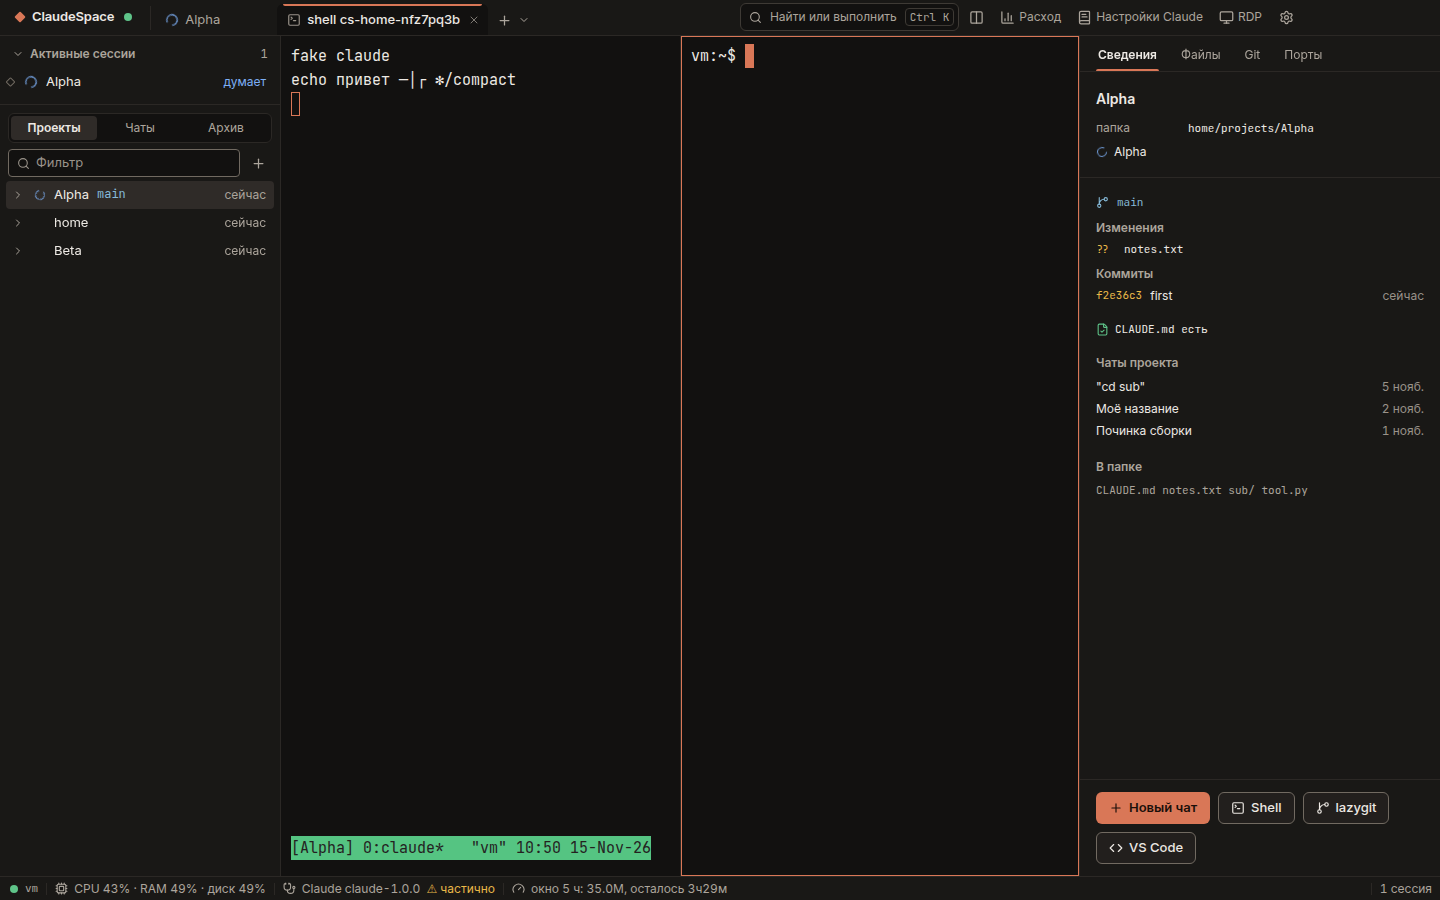
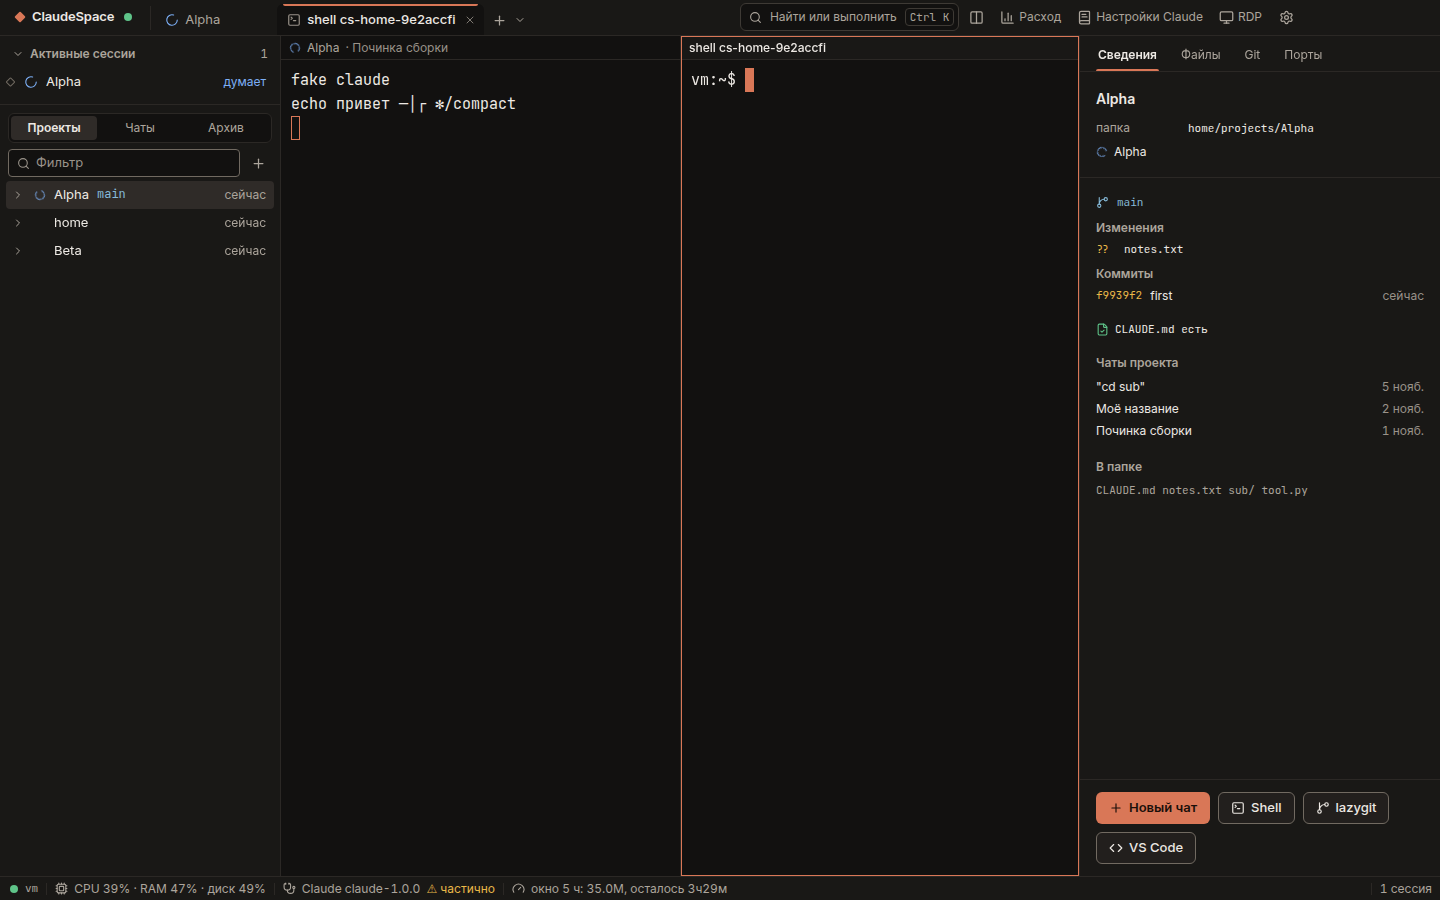
Hide the tmux status line in the app; pane headers in split view
- tmux terminals get extra rows for the status line and those rows are clipped
  (clip-path on .xterm-screen), so the session's status line stays for SSH clients;
  the agent reports status lines and position in hello (tmuxStatus); setting
  terminal.hideTmuxStatus, on by default
- Split view: a header per pane with project name, chat title and state
  (lib/tabInfo.ts shared with the tab strip)

Changed region(s): [[0.1875, 0.0, 0.375, 0.1244], [0.1875, 0.9022, 0.4688, 0.9644], [0.4688, 0.0311, 0.5625, 0.0933]]

diff --git a/src/renderer/components/Terminal/controller.ts b/src/renderer/components/Terminal/controller.ts
@@ -31,6 +31,8 @@ export interface TermHandle {
   ackTimer: number | null;
   received: number;
   webgl: WebglAddon | null;
+  /** attached to a tmux session: its status line can be cut off (settings.terminal.hideTmuxStatus) */
+  tmux: boolean;
 }
 
 const handles = new Map<string, TermHandle>();
@@ -99,6 +101,7 @@ export function createHandle(tab: Tab): TermHandle {
     ackTimer: null,
     received: 0,
     webgl: null,
+    tmux: tab.kind === 'tmux',
   };
   term.onData((data) => sendInput(tab.id, data, false));
   term.onBinary((data) => sendInput(tab.id, data, true));
@@ -272,9 +275,34 @@ export function disposeHandle(tabId: string): void {
   h.term.dispose();
 }
 
+/** rows of the tmux status line to cut off in this terminal (0: show it) and whether they are at the top */
+function hiddenStatus(h: TermHandle): { lines: number; top: boolean } {
+  const st = useData.getState().hello?.tmuxStatus ?? { lines: 1, top: false };
+  return h.tmux && (settings()?.terminal.hideTmuxStatus ?? true) ? st : { lines: 0, top: false };
+}
+
+/** Fit the terminal to its host. With the tmux status line hidden, tmux gets that many extra rows and they fall
+ * outside the host (overflow: hidden), below it or, for a status line at the top, above it. */
 export function safeFit(h: TermHandle): { cols: number; rows: number } {
   try {
-    if (h.host && h.host.clientWidth > 20 && h.host.clientHeight > 20) h.fit.fit();
+    if (h.host && h.host.clientWidth > 20 && h.host.clientHeight > 20) {
+      const d = h.fit.proposeDimensions();
+      const hide = hiddenStatus(h);
+      if (d && Number.isFinite(d.cols) && Number.isFinite(d.rows)) {
+        const rows = d.rows + hide.lines;
+        if (d.cols !== h.term.cols || rows !== h.term.rows) h.term.resize(d.cols, rows);
+      }
+      // eslint-disable-next-line @typescript-eslint/no-explicit-any
+      const cellH: number = (h.term as any)._core?._renderService?.dimensions?.css?.cell?.height ?? 0;
+      // the screen is rows × cell tall; the hidden rows are clipped exactly (the host keeps a leftover strip of less
+      // than a row, which would otherwise show part of the status line), a top status line also moves up
+      const screen = h.term.element?.querySelector<HTMLElement>('.xterm-screen');
+      if (screen) {
+        const px = hide.lines * cellH;
+        screen.style.clipPath = px ? (hide.top ? `inset(${px}px 0 0 0)` : `inset(0 0 ${px}px 0)`) : '';
+        screen.style.marginTop = px && hide.top ? `${-px}px` : '';
+      }
+    }
   } catch {
     /* not visible yet */
   }
@@ -450,6 +478,9 @@ export function wireTerminals(): void {
   // once online and the first active_changed arrived: reattach tabs that were waiting
   useData.subscribe((d, prev) => {
     if (d.sessionsSynced && !prev.sessionsSynced) reattachAll();
+    // the agent says how tall the tmux status line is: tmux terminals get their row count again
+    if (JSON.stringify(d.hello?.tmuxStatus) !== JSON.stringify(prev.hello?.tmuxStatus))
+      for (const h of handles.values()) if (h.tmux) safeFit(h);
   });
 }
 

diff --git a/src/renderer/components/Terminal/TerminalView.tsx b/src/renderer/components/Terminal/TerminalView.tsx
@@ -12,8 +12,10 @@ import { useData } from '../../stores/data';
 import { attachDroppedFiles } from '../../lib/images';
 import { useTabs } from '../../stores/tabs';
 import { paneRect } from '../../lib/panes';
+import { useTabInfo } from '../../lib/tabInfo';
 import { useUi } from '../../stores/ui';
 import { Button } from '../ui/Button';
+import { StatusIcon } from '../ui/StatusIcon';
 import { ContextMenu } from '../ui/Menu';
 import { createHandle, getHandle, mountHandle, openChannel, safeFit, writeToTab } from './controller';
 
@@ -207,6 +209,23 @@ function TermOverlay({ tab }: { tab: Tab }) {
   }
 }
 
+/** split view: which chat a pane shows (the tab strip is far away once there are four panes) */
+function PaneHeader({ tab, active }: { tab: Tab; active: boolean }) {
+  const info = useTabInfo(tab);
+  return (
+    <div
+      className={`flex h-6 shrink-0 items-center gap-1.5 border-b border-line px-2 text-[12px] ${active ? 'bg-surface text-fg' : 'text-muted'}`}
+      title={[info.chatTitle, info.path].filter(Boolean).join('\n')}
+    >
+      {tab.kind === 'tmux' ? <StatusIcon status={info.status} size={12} /> : null}
+      <span className={`truncate ${active ? 'font-medium' : ''}`}>{info.title}</span>
+      {info.chatTitle && info.chatTitle !== info.title && (
+        <span className="min-w-0 truncate text-faint">· {info.chatTitle}</span>
+      )}
+    </div>
+  );
+}
+
 /** pane: where this tab sits in split view (lib/panes.ts), null = not on screen; active = the focused one */
 export function TerminalView({
   tab,
@@ -305,7 +324,7 @@ export function TerminalView({
   const hasFiles = (e: DragEvent) => e.dataTransfer.types.includes('Files');
   return (
     <div
-      className={`absolute ${pane ? '' : 'invisible pointer-events-none'} ${pane?.split && pane.rect.left > 0 ? 'border-l border-line' : ''} ${pane?.split && pane.rect.top > 0 ? 'border-t border-line' : ''}`}
+      className={`absolute flex flex-col ${pane ? '' : 'invisible pointer-events-none'} ${pane?.split && pane.rect.left > 0 ? 'border-l border-line' : ''} ${pane?.split && pane.rect.top > 0 ? 'border-t border-line' : ''}`}
       style={
         pane
           ? {
@@ -352,11 +371,12 @@ export function TerminalView({
         }
       }}
     >
+      {pane?.split && <PaneHeader tab={tab} active={active} />}
       <ContextMenu items={menu}>
         <div
           ref={hostRef}
           style={{ opacity: dimmed ? 0.45 : 1, background: 'var(--bg-base)' }}
-          className="h-full w-full transition-opacity duration-200"
+          className="min-h-0 w-full flex-1 overflow-hidden transition-opacity duration-200"
         />
       </ContextMenu>
       {pane && <TermOverlay tab={tab} />}

diff --git a/src/renderer/components/TitleBar/TitleBar.tsx b/src/renderer/components/TitleBar/TitleBar.tsx
@@ -27,6 +27,7 @@ import { SPLIT_MODES } from '../../lib/panes';
 import { t } from '../../i18n/ru';
 import { formatAgo } from '../../lib/format';
 import { sessionStatus } from '../../lib/status';
+import { tabStatus, useTabInfo } from '../../lib/tabInfo';
 import { useConn } from '../../stores/conn';
 import { useData } from '../../stores/data';
 import { useTabs } from '../../stores/tabs';
@@ -210,17 +211,6 @@ function SplitMenu() {
   );
 }
 
-function tabStatus(
-  tab: Tab,
-  sessionsStatus: Map<string, { ui: UiStatus; raw: string | null }>,
-  online: boolean,
-): UiStatus {
-  if (!online || tab.term === 'offline') return 'offline';
-  if (tab.term === 'ended' || tab.term === 'error') return 'error';
-  if (tab.kind !== 'tmux') return 'none';
-  return (tab.session && sessionsStatus.get(tab.session)?.ui) || 'none';
-}
-
 function TabButton({
   tab,
   index,
@@ -232,13 +222,9 @@ function TabButton({
   active: boolean;
   status: UiStatus;
 }) {
-  const sessions = useData((d) => d.sessions);
-  const chats = useData((d) => d.chats);
-  const s = tab.session ? sessions.find((x) => x.name === tab.session) : undefined;
-  const chat = s?.claude[0] ? chats[s.claude[0].chatId] : tab.chatId ? chats[tab.chatId] : undefined;
-  // title: session name; if Claude runs in it — project folder name
-  const title = chat?.project ? chat.project.split('/').pop() || tab.title : tab.title;
-  const tip = [chat?.title, s?.path ?? tab.cwd, t.status[status] || status].filter(Boolean).join('\n');
+  const info = useTabInfo(tab);
+  const title = info.title;
+  const tip = [info.chatTitle, info.path, t.status[status] || status].filter(Boolean).join('\n');
   return (
     <ContextMenu items={() => tabMenu(tab)}>
       <div

diff --git a/src/renderer/lib/tabInfo.ts b/src/renderer/lib/tabInfo.ts
@@ -1,0 +1,37 @@
+// What a tab is called and what state it is in: shared by the tab strip and the pane headers of split view.
+import type { Tab, UiStatus } from '@shared/model';
+import { useConn } from '../stores/conn';
+import { useData } from '../stores/data';
+import { sessionStatus } from './status';
+
+export function tabStatus(
+  tab: Tab,
+  sessionsStatus: Map<string, { ui: UiStatus; raw: string | null }>,
+  online: boolean,
+): UiStatus {
+  if (!online || tab.term === 'offline') return 'offline';
+  if (tab.term === 'ended' || tab.term === 'error') return 'error';
+  if (tab.kind !== 'tmux') return 'none';
+  return (tab.session && sessionsStatus.get(tab.session)?.ui) || 'none';
+}
+
+/** title: the project folder name when Claude runs in the tab, else the tab's own title; tip: chat, folder, state */
+export function useTabInfo(tab: Tab): {
+  title: string;
+  chatTitle: string | null;
+  path: string | null;
+  status: UiStatus;
+} {
+  const sessions = useData((d) => d.sessions);
+  const chats = useData((d) => d.chats);
+  const online = useConn((c) => c.state.kind === 'online');
+  const s = tab.session ? sessions.find((x) => x.name === tab.session) : undefined;
+  const chat = s?.claude[0] ? chats[s.claude[0].chatId] : tab.chatId ? chats[tab.chatId] : undefined;
+  const status = tabStatus(tab, new Map(s ? [[s.name, sessionStatus(s)]] : []), online);
+  return {
+    title: chat?.project ? chat.project.split('/').pop() || tab.title : tab.title,
+    chatTitle: chat?.title ?? null,
+    path: s?.path ?? tab.cwd ?? null,
+    status,
+  };
+}

diff --git a/tests/e2e/smoke.spec.ts b/tests/e2e/smoke.spec.ts
@@ -373,6 +373,14 @@ test('main window, sidebar, terminal, overlays, reconnect, restore', async () =>
   await win.keyboard.press('Control+Shift+S');
   await expect(win.locator('[data-pane="1"]')).toBeVisible({ timeout: 10_000 });
   await expect(empty).toBeHidden();
+  // each pane says which chat it shows; the tmux status line of the Claude pane is cut off (one row clipped)
+  await expect(win.locator('[data-pane="0"]')).toContainText('· Починка сборки');
+  expect(
+    await win.locator('[data-pane="0"] .xterm-screen').evaluate((el) => (el as HTMLElement).style.clipPath),
+  ).toMatch(/^inset\(0px 0px [1-9]\d*px/);
+  expect(
+    await win.locator('[data-pane="1"] .xterm-screen').evaluate((el) => (el as HTMLElement).style.clipPath),
+  ).toBe(''); // a shell tab has no tmux
   await win.screenshot({ path: join(SHOTS, '25-split.png') });
   await win.locator('[data-pane="0"]').click({ position: { x: 200, y: 200 } });
   await expect(win.getByTestId('claude-bar')).toBeVisible(); // focus is back on the Claude tab

diff --git a/src/renderer/i18n/ru.ts b/src/renderer/i18n/ru.ts
@@ -600,6 +600,9 @@ export const ru = {
     renderer: 'Отрисовка',
     rendererDom: 'DOM (как в браузере)',
     rendererWebgl: 'WebGL (экспериментально)',
+    hideTmuxStatus: 'Прятать строку tmux',
+    hideTmuxStatusHint:
+      'Нижняя строка tmux с именем сессии и часами не показывается в окнах приложения. В SSH и на телефоне она остаётся.',
     webglBroken: (pct: number) =>
       `WebGL рисовал буквы на ${pct}% от нужного размера, поэтому терминал переключён на DOM. Вернуть WebGL можно в Настройки → Терминал.`,
     rendererHint: 'WebGL быстрее при большом потоке текста. Если буквы выглядят странно, верните DOM.',

diff --git a/src/renderer/components/Overlays/Settings.tsx b/src/renderer/components/Overlays/Settings.tsx
@@ -705,6 +705,12 @@ export function SettingsOverlay() {
                   onChange={(v) => void patch({ terminal: { renderer: v } })}
                 />
               </Row>
+              <Row label={t.settings.hideTmuxStatus} hint={t.settings.hideTmuxStatusHint}>
+                <Toggle
+                  checked={s.terminal.hideTmuxStatus}
+                  onChange={(v) => void patch({ terminal: { hideTmuxStatus: v } })}
+                />
+              </Row>
               <Row label={t.settings.scrollback}>
                 <Num
                   value={s.terminal.scrollback}

diff --git a/src/shared/settings.ts b/src/shared/settings.ts
@@ -46,6 +46,8 @@ export const settingsSchema = z.object({
       ctrlCCopies: z.boolean().default(true),
       ctrlVPastes: z.boolean().default(true),
       warnMultilinePaste: z.boolean().default(true),
+      // the tmux status line is cut off in the app's terminals (tmux gets extra rows; SSH clients keep theirs)
+      hideTmuxStatus: z.boolean().default(true),
     })
     .prefault({}),
   startup: z

diff --git a/src/shared/model.ts b/src/shared/model.ts
@@ -174,6 +174,8 @@ export interface Hello {
   home: string;
   claudeVersion: string | null;
   tmux: string | null;
+  /** rows the tmux status line takes and whether it is at the top (absent: older agent) */
+  tmuxStatus?: { lines: number; top: boolean };
   capabilities: string[];
   warnings: string[];
 }

diff --git a/agent/cclib/tmux.py b/agent/cclib/tmux.py
@@ -80,6 +80,14 @@ def send_keys(pane, *keys, literal=False):
     run(['send-keys', '-t', pane] + (['-l'] if literal else []) + list(keys), check=True)
 
 
+def status_layout():
+    """-> {lines, top}: how many rows the tmux status line takes and where (global options; default 1, bottom)."""
+    st = run(['show-options', '-gv', 'status']).strip()
+    pos = run(['show-options', '-gv', 'status-position']).strip()
+    lines = 0 if st == 'off' else int(st) if st.isdigit() and 2 <= int(st) <= 5 else 1
+    return {'lines': lines, 'top': pos == 'top'}
+
+
 def capture(pane):
     """the visible screen of one pane with colours and attributes (escape sequences), '' if it fails"""
     if not re.fullmatch(r'%\d{1,6}', pane or ''):

diff --git a/agent/csagent.py b/agent/csagent.py
@@ -210,7 +210,8 @@ class Agent:
         self.emit('hello', {
             'protocol': PROTOCOL, 'agent': AGENT_VERSION, 'hash': own_hash(), 'python': platform.python_version(),
             'host': os.environ.get('CSAGENT_HOSTNAME') or socket.gethostname().split('.')[0], 'user': getpass.getuser(), 'home': paths.P.home,
-            'claudeVersion': self.claude_ver, 'tmux': tmux.version(), 'capabilities': caps, 'warnings': warnings,
+            'claudeVersion': self.claude_ver, 'tmux': tmux.version(), 'tmuxStatus': tmux.status_layout(), 'capabilities': caps,
+            'warnings': warnings,
         })
 
     # -------------------------------------------------------------- snapshots

diff --git a/docs/DESIGN.md b/docs/DESIGN.md
@@ -823,6 +823,7 @@ DevTools — только в dev-сборке (`F12`).
 | `mosh_list` / `mosh_kill_stale` | — | `{servers: [{pid, ageSec, current}]}` / `{killed: int}` | 4 |
 | `resync` | — | `{}` — агент заново шлёт полные снимки всех `*_changed` | 2 |
 | `git_status` / `git_diff` / `git_log` | `{path}` / `{path, file, staged?, untracked?}` / `{path, limit?}` | панель Git, только чтение | 5 ✅ |
+| `hello` поле `tmuxStatus` | — | `{lines, top}` из `tmux show -gv status / status-position`: сколько строк обрезать, чтобы спрятать строку tmux в окне (сам tmux получает на столько строк больше) | ✅ |
 | `git_show` | `{path, hash}` | коммит: сообщение, `--stat`, патч (до 400 КБ) | 5 ✅ |
 | `claude_config` / `claude_doc_write` | `{path?}` / `{path, text, mtime: number\|null}` | экран «Настройки Claude» (кнопка Claude в заголовке, палитра): инструкции CLAUDE.md от папки чата вверх, заметки памяти `~/.claude/projects/*/memory`, MCP-серверы (из `~/.claude.json` и `.mcp.json` наружу уходят только имя, тип, команда с пакетом или хост URL и число переменных окружения), скиллы, плагины, хуки. Запись только в CLAUDE.md, CLAUDE.local.md, `.claude/CLAUDE.md` и заметки памяти, без символических ссылок, до 512 КБ; `mtime` загруженной версии, иначе `conflict` и ничего не пишется (`cclib/claudecfg.py`) | ✅ |
 | `git_worktrees` / `worktree_create` / `worktree_remove` | `{path}` / `{path, branch, base?}` / `{path, worktree, force?, deleteBranch?}` | задачи в отдельных папках (панель Git → «Новая задача», палитра): ветка в `<основная копия>/.claude/worktrees/<имя>`, как у самого Claude Code; папка скрыта из `git status` через `.git/info/exclude` (локально, без коммита). Удаление: только дополнительный worktree этого репозитория, не основную копию; отказ, если внутри открыта сессия tmux (`busy`) или есть незакоммиченные правки без `force` (`dirty`); ветка удаляется только `git branch -d` (влитая). Проекты в таких папках называются «Alpha › fix-login» (`cclib/worktrees.py`) | ✅ |
